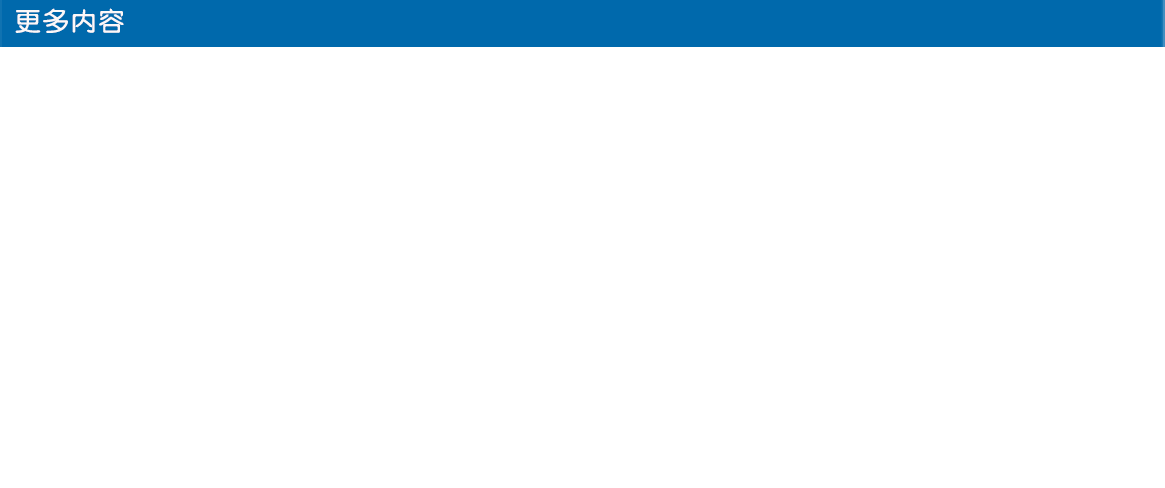
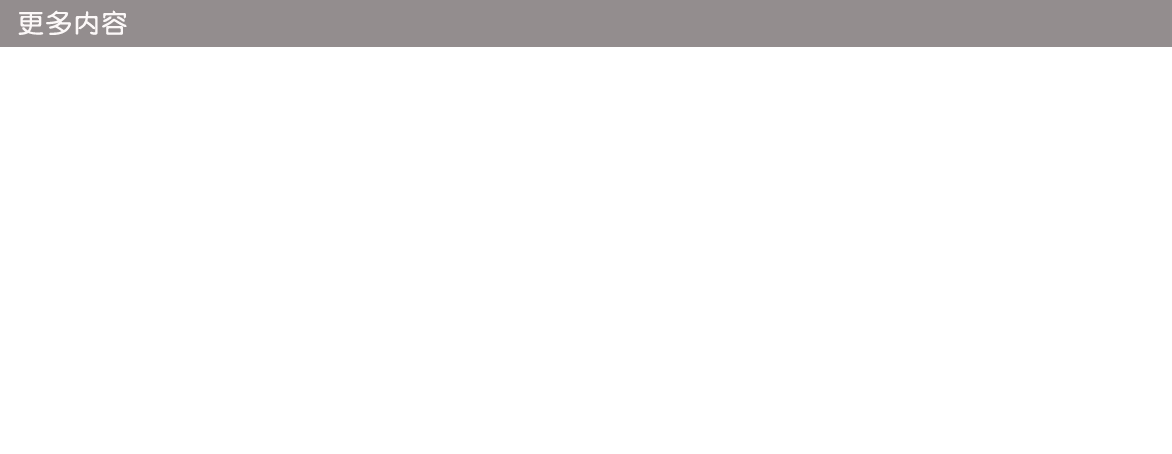
调整三级页面的布局

Changed region(s): [[0.0, 0.0, 1.0, 0.1233]]

diff --git a/view/more.html b/view/more.html
@@ -7,6 +7,7 @@
 </head>
 <body>
 <div class="background">
+    <div id="bar" class="bar"></div>
     <div id="content" class="more-page-content"></div>
     <div class="more-page-index-img">
         <div id="more-page-index-text" class="more-page-index-text">
@@ -20,6 +21,8 @@
 <script type="application/javascript" src="../utility/async.js"></script>
 <script type="application/javascript" src="../cms/cms.config.js"></script>
 <script type="application/javascript" src="../cms/cms.api.js"></script>
+<script type="application/javascript" src="../module/bar.module.js"></script>
+<script type="application/javascript" src="../wrapper/bar.wrapper.js"></script>
 <script type="application/javascript" src="../module/cursor.module.js"></script>
 <script type="application/javascript" src="../module/more.module.js"></script>
 <script type="application/javascript" src="../module/pager.module.js"></script>
@@ -29,24 +32,45 @@
         MoreModule.call(this);
     }
 
-    function CursorComponent(more) {
+    function CursorComponent(bar, more) {
         CursorModule.call(this);
 
         // 属性
         this.focusArea = 4;
+        this.bar = bar;
         this.more = more;
         this.fileName = 'PG_MORE';
 
         // 方法
         this.moveX = function (direction) {
             this.focusOut();
-            this.more.moveX(direction);
+            switch (this.focusArea) {
+                case 4:
+                    this.more.moveX(direction);
+                    break;
+                case 5:
+                    this.bar.moveX(direction, true);
+                    break;
+                default:
+                    break;
+            }
             this.focusOn();
         };
 
         this.moveY = function (direction) {
             this.focusOut();
-            this.more.moveY(direction);
+            switch (this.focusArea) {
+                case 4:
+                    if (-1 === this.more.moveY(direction)) {
+                        this.focusArea = 5;
+                    }
+                    break;
+                case 5:
+                    this.focusArea = 4;
+                    break;
+                default:
+                    break;
+            }
             this.focusOn();
         };
 
@@ -59,7 +83,7 @@
         };
     }
 
-    function TransferComponent(cursor, more) {
+    function TransferComponent(cursor) {
         var that = this;
 
         TransferModule.call(this);
@@ -79,42 +103,51 @@
 
             this.remove(this.cursor.fileName);
 
-            switch (this.cursor.more.resourceType) {
-                case 'textures':
-                    params.PG_MORE = {
-                        focusArea: this.cursor.focusArea,
-                        focusPosX: this.cursor.more.focusPosX,
-                        focusPosY: this.cursor.more.focusPosY,
-                        resourceId: this.cursor.more.resourceId,
-                        resourceType: this.cursor.more.resourceType,
-                        backURL: this.cursor.more.backURL,
-                        logoImageSrc: this.cursor.more.logoImageSrc,
-                        pageIndex: this.cursor.more.pageIndex
-                    };
-                    params.PG_TEXT = {
-                        resourceId: this.cursor.more.moreItemArray[this.cursor.more.focusPosY][this.cursor.more.focusPosX].id,
-                        isShowGraphics: 'show',
-                        backURL: 'more.html',
-                        logoImageSrc: this.cursor.more.logoImageSrc
-                    };
-                    postfix = this.package(params);
-                    window.location.href = 'detail.html' + postfix;
+            switch (this.cursor.focusArea) {
+                case 4:
+                    switch (this.cursor.more.resourceType) {
+                        case 'textures':
+                            params.PG_MORE = {
+                                focusArea: this.cursor.focusArea,
+                                focusPosX: this.cursor.more.focusPosX,
+                                focusPosY: this.cursor.more.focusPosY,
+                                resourceId: this.cursor.more.resourceId,
+                                resourceType: this.cursor.more.resourceType,
+                                backURL: this.cursor.more.backURL,
+                                logoImageSrc: this.cursor.more.logoImageSrc,
+                                pageIndex: this.cursor.more.pageIndex
+                            };
+                            params.PG_TEXT = {
+                                resourceId: this.cursor.more.moreItemArray[this.cursor.more.focusPosY][this.cursor.more.focusPosX].id,
+                                isShowGraphics: 'show',
+                                backURL: 'more.html',
+                                logoImageSrc: this.cursor.more.logoImageSrc
+                            };
+                            postfix = this.package(params);
+                            window.location.href = 'detail.html' + postfix;
+                            break;
+                        case 'video':
+                            params.VIDEO = {
+                                backURL: this.backUrl(),
+                                fileName: this.cursor.fileName,
+                                focusArea: this.cursor.focusArea,
+                                focusPosX: this.cursor.more.focusPosX,
+                                focusPosY: this.cursor.more.focusPosY,
+                                resourceId: this.cursor.more.resourceId,
+                                resourceType: this.cursor.more.resourceType,
+                                morePageBackURL: this.cursor.more.backURL,
+                                pageIndex: this.cursor.more.pageIndex,
+                                assertId: this.cursor.more.moreItemArray[this.cursor.more.focusPosY][this.cursor.more.focusPosX].assetid
+                            };
+                            postfix = this.package(params);
+                            window.location.href = 'video.html' + postfix;
+                            break;
+                        default:
+                            break;
+                    }
                     break;
-                case 'video':
-                    params.VIDEO = {
-                        backURL: this.backUrl(),
-                        fileName: this.cursor.fileName,
-                        focusArea: this.cursor.focusArea,
-                        focusPosX: this.cursor.more.focusPosX,
-                        focusPosY: this.cursor.more.focusPosY,
-                        resourceId: this.cursor.more.resourceId,
-                        resourceType: this.cursor.more.resourceType,
-                        morePageBackURL: this.cursor.more.backURL,
-                        pageIndex: this.cursor.more.pageIndex,
-                        assertId: this.cursor.more.moreItemArray[this.cursor.more.focusPosY][this.cursor.more.focusPosX].assetid
-                    };
-                    postfix = this.package(params);
-                    window.location.href = 'video.html' + postfix;
+                case 5:
+                    this.cursor.bar.doSelect();
                     break;
                 default:
                     break;
@@ -161,13 +194,15 @@
 
     window.onload = function () {
         var
+            barComponent = new BarComponent(),
             moreComponent = new MoreComponent(),
-            cursorComponent = new CursorComponent(moreComponent),
-            transferComponent = new TransferComponent(cursorComponent, moreComponent);
+            cursorComponent = new CursorComponent(barComponent, moreComponent),
+            transferComponent = new TransferComponent(cursorComponent);
 
         document.onkeydown = transferComponent.onKeyDown;
 
         transferComponent.init();
+        barComponent.init();
         moreComponent.init(moreComponent.pageIndex, function () {
             cursorComponent.focusOn();
         });

diff --git a/module/more.module.js b/module/more.module.js
@@ -7,14 +7,14 @@ function MoreModule() {
     this.columnsPerPage = 0;
     this.maxItemsPerPage = 30;
     this.maxColumnsPerPage = 3;
-    this.maxItemsPerColumn = 10;
+    this.maxItemsPerColumn = 9;
     this.focusPosX = 0;             //  默认定位在第一行第一项
     this.focusPosY = 0;
     this.pageIndex = 1;             //  当面页号
     this.totalPages = 1;            //  总页数
-    this.columnPadding = 390;
+    this.columnPadding = 395;
     this.itemWidth = 370;
-    this.itemHeight = 44;
+    this.itemHeight = 46;
     this.marqueeNumber = 15;
 
     this.moreItemArray = [];
@@ -61,7 +61,7 @@ function MoreModule() {
                 {assetid: 111, img: '../images/news/3.jpg', title: '我我我我我我我我我我我', flag: 0, id: 21},
                 {assetid: 111, img: '../images/news/3.jpg', title: '我我我我我我我我我我我', flag: 0, id: 21},
                 {assetid: 111, img: '../images/news/3.jpg', title: '我我我我我我我我我我我', flag: 0, id: 21},
-                {assetid: 111, img: '../images/news/3.jpg', title: '我我我我我我我我我我我', flag: 0, id: 21},
+                {assetid: 111, img: '../images/news/3.jpg', title: '我我我我我我我我我我我', flag: 0, id: 21}
                 // {assetid: 111, img: '../images/news/3.jpg', title: '我我我我我我我我我我我', flag: 0, id: 21},
                 // {assetid: 111, img: '../images/news/3.jpg', title: '我我我我我我我我我我我', flag: 0, id: 21},
                 // {assetid: 111, img: '../images/news/3.jpg', title: '我我我我我我我我我我我', flag: 0, id: 21},
@@ -201,20 +201,19 @@ function MoreModule() {
         } else {
             this.focusPosY = this.columnsPerPage - 1;
         }
-        console.info('more.module.js    ==>     moveX | X: ' + this.focusPosX + ' Y: ' + this.focusPosY);
     };
 
     this.moveY = function (_direction) {
         this.focusPosX += _direction;
         if (this.focusPosX >= 0 && this.focusPosX < this.moreItemArray[this.focusPosY].length) {
-
+            return 0;
         } else if (this.focusPosX < 0) {
             this.focusPosX = 0;
+            return -1;
         } else {
             this.focusPosX = this.moreItemArray[this.focusPosY].length - 1;
+            return -1;
         }
-
-        console.info('more.module.js    ==>     moveY | X: ' + this.focusPosX + ' Y: ' + this.focusPosY);
     };
 
     this.changePage = function (direction, callback) {

diff --git a/module/bar.module.js b/module/bar.module.js
@@ -44,7 +44,7 @@ function BarModule() {
         cursor.style.visibility = 'hidden';
     };
 
-    this.moveX = function (direction, postfix) {
+    this.moveX = function (direction, manual) {
         this.focusPos += direction;
         if (this.focusPos >= 0 && this.focusPos < this.barItemArray.length) {
 
@@ -53,13 +53,11 @@ function BarModule() {
         } else {
             this.focusPos = 0;
         }
-        // console.log(this.barItemArray[this.focusPos].url);
-        // console.log(postfix);
-        //document.getElementById('debug-message').innerHTML += '<br/>' + ' moveX: focusPos ==> ' + this.focusPos;
-        //if (this.focusPos === 6 || this.focusPos === 7) {
-        //    GMObj.pathManager.setBackURL(this.barItemArray[this.focusPos].url, 'http://10.184.255.11/fumei-xiuyu/view/topic.html' + postfix, postfix);
-        //}
-        window.location.href = this.barItemArray[this.focusPos].url;
+        if (manual) {
+
+        } else {
+            window.location.href = this.barItemArray[this.focusPos].url;
+        }
     };
 
     this.moveY = function (direction) {
@@ -67,6 +65,6 @@ function BarModule() {
     };
 
     this.doSelect = function (postfix) {
-        window.location.href = 'more.html' + postfix;
+        window.location.href = this.barItemArray[this.focusPos].url;
     };
 }

diff --git a/view/class.html b/view/class.html
@@ -129,15 +129,7 @@
                     break;
                 case 5:         // 栏目
                     this.remove('PG-ONE');              // 清除同一级的路径记录
-                    params =
-                        {
-                            'PG-ONE': {
-                                focusArea: this.cursor.focusArea,
-                                focusPos: this.cursor.bar.focusPos + 1
-                            }
-                        };
-                    postfix = this.package(params);
-                    this.cursor.bar.moveX(direction, postfix);
+                    this.cursor.bar.moveX(direction);
                     break;
                 case 6:         //  滚动图片
                     if (-1 === this.cursor.swiper.moveX(direction)) {

diff --git a/view/company.html b/view/company.html
@@ -143,15 +143,7 @@
                     break;
                 case 5:         // 栏目
                     this.remove('PG-ONE');              // 清除同一级的路径记录
-                    params =
-                        {
-                            'PG-ONE': {
-                                focusArea: this.cursor.focusArea,
-                                focusPos: this.cursor.bar.focusPos + 1
-                            }
-                        };
-                    postfix = this.package(params);
-                    this.cursor.bar.moveX(direction, postfix);
+                    this.cursor.bar.moveX(direction);
                     break;
                 case 6:         //  滚动图片
                     if (-1 === this.cursor.swiper.moveX(direction)) {

diff --git a/view/index.html b/view/index.html
@@ -108,15 +108,7 @@
                     break;
                 case 5:         // 栏目
                     this.remove('PG-ONE');              // 清除同一级的路径记录
-                    params =
-                        {
-                            'PG-ONE': {
-                                focusArea: this.cursor.focusArea,
-                                focusPos: this.cursor.bar.focusPos + 1
-                            }
-                        };
-                    postfix = this.package(params);
-                    this.cursor.bar.moveX(direction, postfix);
+                    this.cursor.bar.moveX(direction);
                     break;
                 case 6:         //  滚动图片
                     if (-1 === this.cursor.swiper.moveX(direction)) {

diff --git a/view/time.html b/view/time.html
@@ -127,15 +127,7 @@
                     break;
                 case 5:         // 栏目
                     this.remove('PG-ONE');              // 清除同一级的路径记录
-                    params =
-                        {
-                            'PG-ONE': {
-                                focusArea: this.cursor.focusArea,
-                                focusPos: this.cursor.bar.focusPos + 1
-                            }
-                        };
-                    postfix = this.package(params);
-                    this.cursor.bar.moveX(direction, postfix);
+                    this.cursor.bar.moveX(direction);
                     break;
                 case 6:         //  滚动图片
                     if (-1 === this.cursor.swiper.moveX(direction)) {

diff --git a/view/service.html b/view/service.html
@@ -126,7 +126,7 @@
                     break;
                 case 5:         // 栏目
                     this.remove('PG-ONE');              // 清除同一级的路径记录
-                    this.cursor.bar.moveX(direction, '');
+                    this.cursor.bar.moveX(direction);
                     break;
                 case 6:         //  滚动图片
                     if (-1 === this.cursor.swiper.moveX(direction)) {

diff --git a/style/common.css b/style/common.css
@@ -157,7 +157,7 @@
 .more-page-content {
     position: absolute;
     left: 57px;
-    top: 136px;
+    top: 168px;
     width: 1165px;
     height: 488px;
     line-height: 38px;
@@ -184,7 +184,7 @@
     left: 0;
     top: 62px;
     width: 370px;
-    height: 44px;
+    height: 42px;
     padding: 0 10px;
     /*background-image: url(../images/more/more_page_item_text.png);*/
     overflow: hidden;

diff --git a/view/student.html b/view/student.html
@@ -105,7 +105,7 @@
                     break;
                 case 5:         // 栏目
                     this.remove('PG-ONE');              // 清除同一级的路径记录
-                    this.cursor.bar.moveX(direction, '');
+                    this.cursor.bar.moveX(direction);
                     break;
                 default:
                     break;

diff --git a/view/teacher.html b/view/teacher.html
@@ -113,7 +113,7 @@
                     break;
                 case 5:         // 栏目
                     this.remove('PG-ONE');              // 清除同一级的路径记录
-                    this.cursor.bar.moveX(direction, '');
+                    this.cursor.bar.moveX(direction);
                     break;
                 default:
                     break;

diff --git a/wrapper/bar.wrapper.js b/wrapper/bar.wrapper.js
@@ -60,7 +60,7 @@ function BarComponent() {
             title: '新时代新征程',
             resourceId: 0,
             url: 'time.html',
-            left: 973,
+            left: 969,
             width: 197,
             height: 54,
             bgImageSrc: 'url(../images/bar/7.png) center no-repeat'
